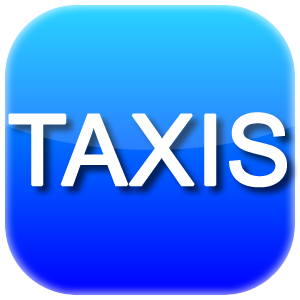
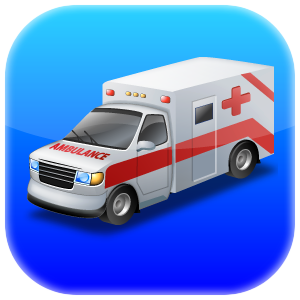
UP to PG 3.6.3 + New visuals and few bugs solved

diff --git a/dcvpad.html b/dcvpad.html
@@ -3,7 +3,7 @@
     <head>
     <meta http-equiv="Content-Type" content="text/html; charset=utf-8" />
     <meta http-equiv="CONTENT-LANGUAGE" content="French">
-    <title>DCVPad by TaxiMedia</title>
+    <title>AmbuCorp by TaxiMedia</title>
     <link type="image/x-icon" href="visuels/favicon.ico" rel="icon"/>
     <link type="image/x-icon" href="visuels/favicon.ico" rel="shortcut icon"/>
     <link rel="apple-touch-icon" href="visuels/idev.favicon.png"/>
@@ -33,10 +33,10 @@
             $.mobile.allowCrossDomainPages = true;
             $.mobile.selectmenu.prototype.options.nativeMenu = false;
 			//$.mobile.ajaxEnabled = false;
-			$.mobile.loader.prototype.options.text = "Veuillez patienter pendant la recherche de taxi disponible. Merci de votre confiance !";
+			$.mobile.loader.prototype.options.text = "Veuillez patienter pendant la recherche d&rsquo;ambulance disponible. Merci de votre confiance !";
 			$.mobile.loader.prototype.options.textVisible = "true";
 			$.mobile.loader.prototype.options.theme = "a";
-			$.mobile.loader.prototype.options.html = '<span class="ui-bar ui-overlay-c ui-corner-all"><center><img src="visuels/preload_world.gif"/><br><strong><span style="color:#F00;">Veuillez patienter pendant la recherche de taxi disponible</span><br>Merci de votre confiance !</strong></center></span>';
+			$.mobile.loader.prototype.options.html = '<span class="ui-bar ui-overlay-c ui-corner-all"><center><img src="visuels/preload_world.gif"/><br><strong><span style="color:#F00;">Veuillez patienter pendant la recherche d&rsquo;ambulance disponible</span><br>Merci de votre confiance !</strong></center></span>';
         });
     </script>    
     <script src="http://code.jquery.com/mobile/1.4.3/jquery.mobile-1.4.3.min.js"></script>
@@ -220,7 +220,7 @@
 		var rdvlng = '';
 		url = '';
 		num_req = idcourse;
-		url = 'taxi=0000&tel=0000000000&idcourse=' + idcourse + '&num_req=' + num_req + '&rdvpoint=' + rdvpoint + '&lat=' + rdvlat + '&lng=' + rdvlng + '&comments=' + comments + '&cell=' + cell + '&when=' + when + '&date=' + date + '&operator=' + operator + '&howmany=' + howMany + '&dep=34&group=1&ack=0&db=1';
+		url = 'taxi=0000&tel=0000000000&idcourse=' + idcourse + '&num_req=' + num_req + '&rdvpoint=' + rdvpoint + '&lat=' + rdvlat + '&lng=' + rdvlng + '&comments=' + comments + '&cell=' + cell + '&when=' + when + '&date=' + date + '&operator=' + operator + '&howmany=' + howMany + '&dep=ambu&group=1&ack=0&db=1';
 		//url = url.replace(/'/g, "&rsquo;");
 		url = url.replace(/(?:\r\n|\r|\n)/g, '<br/>'); // Replaces line breaks by <br/>
 		$.post("https://ssl14.ovh.net/~taxibleu/ambuserver/bookings_app_share.php", url, function(data) {});
@@ -363,7 +363,7 @@
                     clearTimeout(endcourse); // Clears the current timeout
                     clearInterval(sec);
                     //$.fancybox.close();
-                    var endbox = confirm('Vous devez soit relancer votre course (OK) soit rechercher de nouveau taxis !! (Annuler)');
+                    var endbox = confirm('Vous devez soit relancer votre course (OK) soit rechercher de nouvelles ambulances !! (Annuler)');
                     if (endbox == true) {
 						$.mobile.pageContainer.pagecontainer("change", "#infos", { transition: "slide", reverse: true} );
                     }
@@ -451,7 +451,7 @@
 		url = '';
 		num_req = idcourse;
 		i = 0; // We need to make any numreq unique on that one !!
-		$.post("https://ssl14.ovh.net/~taxibleu/ambuserver/app_dcvp_xml.php", { lat: rdvlat, lng: rdvlng, type: typecar, howmany: howMany, cb: cb, group: '1', dep: '34', pass: 'true'}, function(xml){	
+		$.post("https://ssl14.ovh.net/~taxibleu/ambuserver/app_dcvp_xml.php", { lat: rdvlat, lng: rdvlng, type: typecar, howmany: howMany, cb: cb, group: '1', dep: 'ambu', pass: 'true'}, function(xml){	
 			$(xml).find('marker').each(function(){
 				var name = $(this).attr('name');
 				var address = $(this).attr('address');
@@ -462,14 +462,14 @@
 				i = $(this).attr('count');
 				num_req = num_req+1;
 				var latlng = new google.maps.LatLng(lat2, lng2);			
-				var display_name = 'Taxi ' + name;
+				var display_name = 'Ambulance ' + name;
 				var cabIcon = 'visuels/cab_marker.png';
 				mapEvent.addMarker({ id: i ,'position': latlng, 'bounds': true, 'title': display_name, 'icon': cabIcon }).click(function() {
-					infoCont = '<p style="color:#333;"><b>taxi n&deg; ' + name + ' est &agrave; ' + parseFloat(distance).toFixed(1) + ' Km du client<br>' + address+ '</b></p>';
+					infoCont = '<p style="color:#333;"><b>ambulance n&deg; ' + name + ' est &agrave; ' + parseFloat(distance).toFixed(1) + ' Km du client<br>' + address+ '</b></p>';
 					mapEvent.openInfoWindow({ 'content':  infoCont}, this);
 				});
 				//mapEvent.addBounds(latlng);
-				url = 'taxi=' + name + '&tel=' + address + '&idcourse=' + idcourse + '&num_req=' + num_req + '&rdvpoint=' + rdvpoint + '&lat=' + rdvlat + '&lng=' + rdvlng + '&comments=' + comments + '&cell=' + cell + '&when=' + when + '&date=' + date + '&operator=' + operator + '&dep=34&group=1&ack=0&db=1';
+				url = 'taxi=' + name + '&tel=' + address + '&idcourse=' + idcourse + '&num_req=' + num_req + '&rdvpoint=' + rdvpoint + '&lat=' + rdvlat + '&lng=' + rdvlng + '&comments=' + comments + '&cell=' + cell + '&when=' + when + '&date=' + date + '&operator=' + operator + '&dep=ambu&group=1&ack=0&db=1';
 				//url = url.replace(/'/g, "&rsquo;");
 				url = url.replace(/(?:\r\n|\r|\n)/g, '<br/>'); // Replaces line breaks by <br/>
 				//$.post("https://ssl14.ovh.net/~taxibleu/ambuserver/diary_app_share.php", url, function(data) {});
@@ -477,7 +477,7 @@
 			});
 			num_req = num_req+1;
 			i = parseInt(i,10)+1;
-			url = 'taxi=0000&tel=0000000000&idcourse=' + idcourse + '&num_req=' + num_req + '&rdvpoint=' + rdvpoint + '&lat=' + rdvlat + '&lng=' + rdvlng + '&comments=' + comments + '&cell=' + cell + '&when=' + when + '&date=' + date + '&operator=' + operator + '&dep=34&group=1&ack=0&db=1';
+			url = 'taxi=0000&tel=0000000000&idcourse=' + idcourse + '&num_req=' + num_req + '&rdvpoint=' + rdvpoint + '&lat=' + rdvlat + '&lng=' + rdvlng + '&comments=' + comments + '&cell=' + cell + '&when=' + when + '&date=' + date + '&operator=' + operator + '&dep=ambu&group=1&ack=0&db=1';
 			url = url.replace(/'/g, "&rsquo;");
 			url = url.replace(/(?:\r\n|\r|\n)/g, '<br/>'); // Replaces line breaks by <br/>
 			// Sends Auction Request to TaxiMedia ambuserver

diff --git a/index.html b/index.html
@@ -126,8 +126,8 @@
                                  -->
                                 <select name="group" id="group">
                                     <option selected value="1">Groupe</option>
-                                    <option value="4">R&eacute;seau</option>
-                                    <option value="5">Hors r&eacute;seau</option>
+                                    <option value="2">R&eacute;seau 1</option>
+                                    <option value="3">R&eacute;seau 2</option>
                                 </select><em></em>
                                 <!-- 
                                 <fieldset data-role="controlgroup" data-mini="true">

diff --git a/js/home.js b/js/home.js
@@ -251,7 +251,7 @@ function get_coords(position)
 
 function update()
 {
-	var dispo = $.sessionStorage.getItem('dispo');
+	dispo = $.sessionStorage.getItem('dispo');
 	$.post("https://ssl14.ovh.net/~taxibleu/ambuserver/get_app_drive.php", { taxi: taxi, tel: tel, email: email, dispo: dispo, pass: pass, dep: 'ambu', mngid: mngid, group: group }, function(data){ 
 		$("#screen_job").empty().append(data);
 		if (data != 0)
